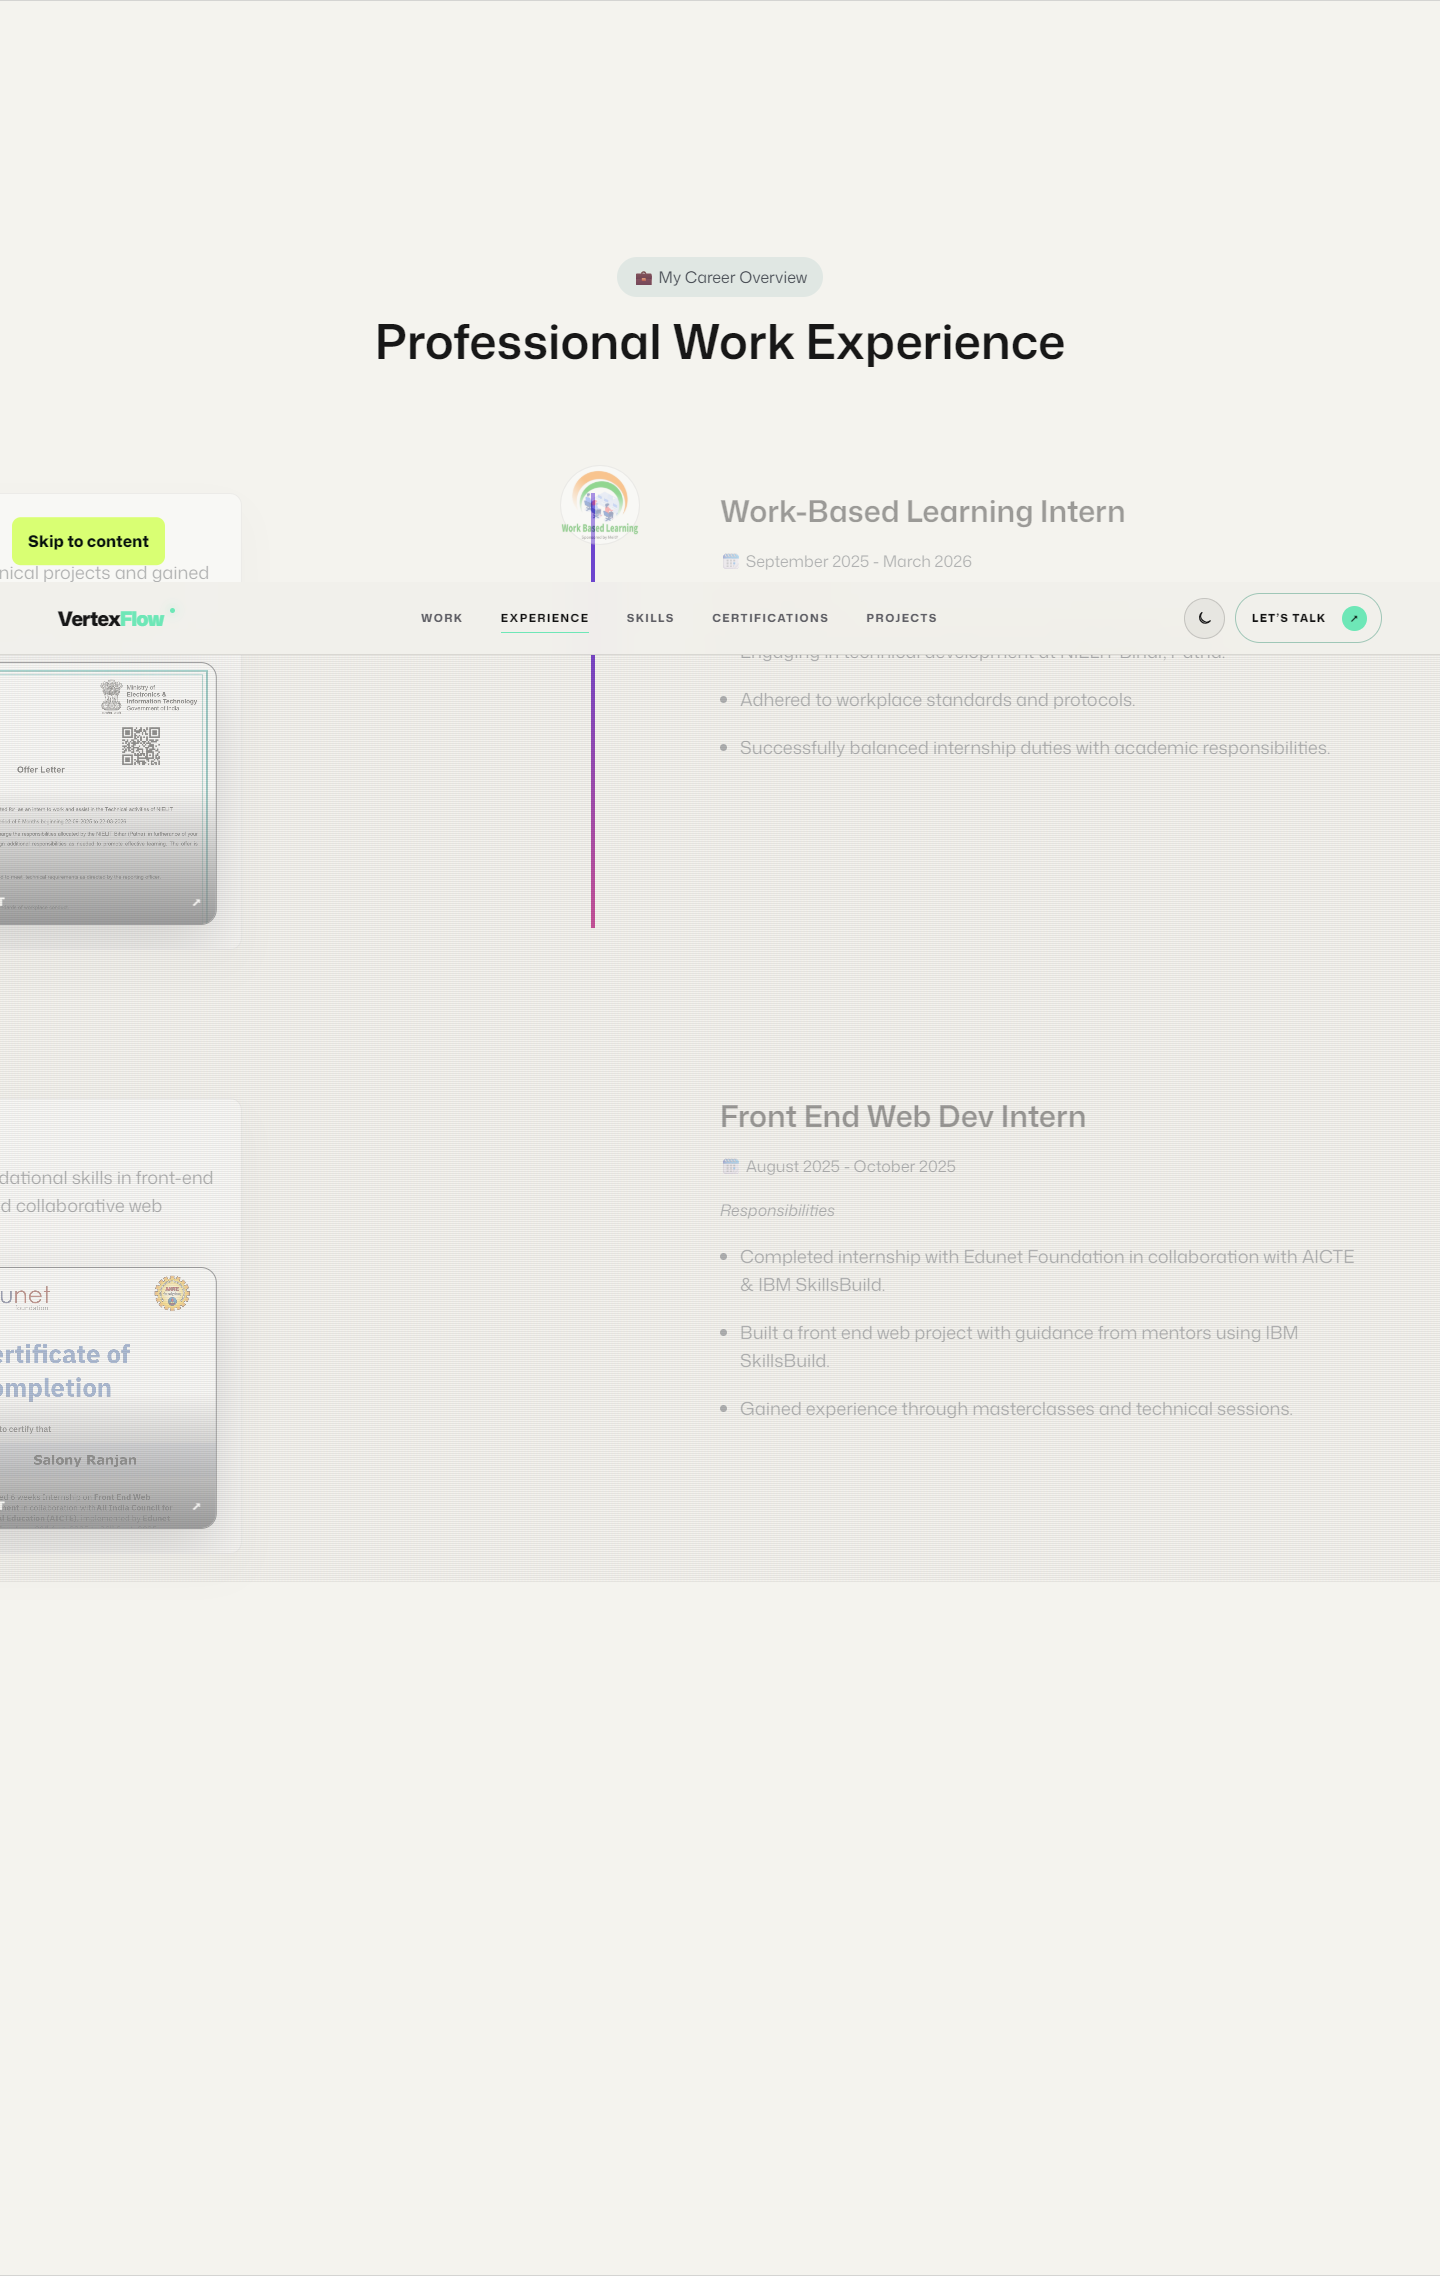
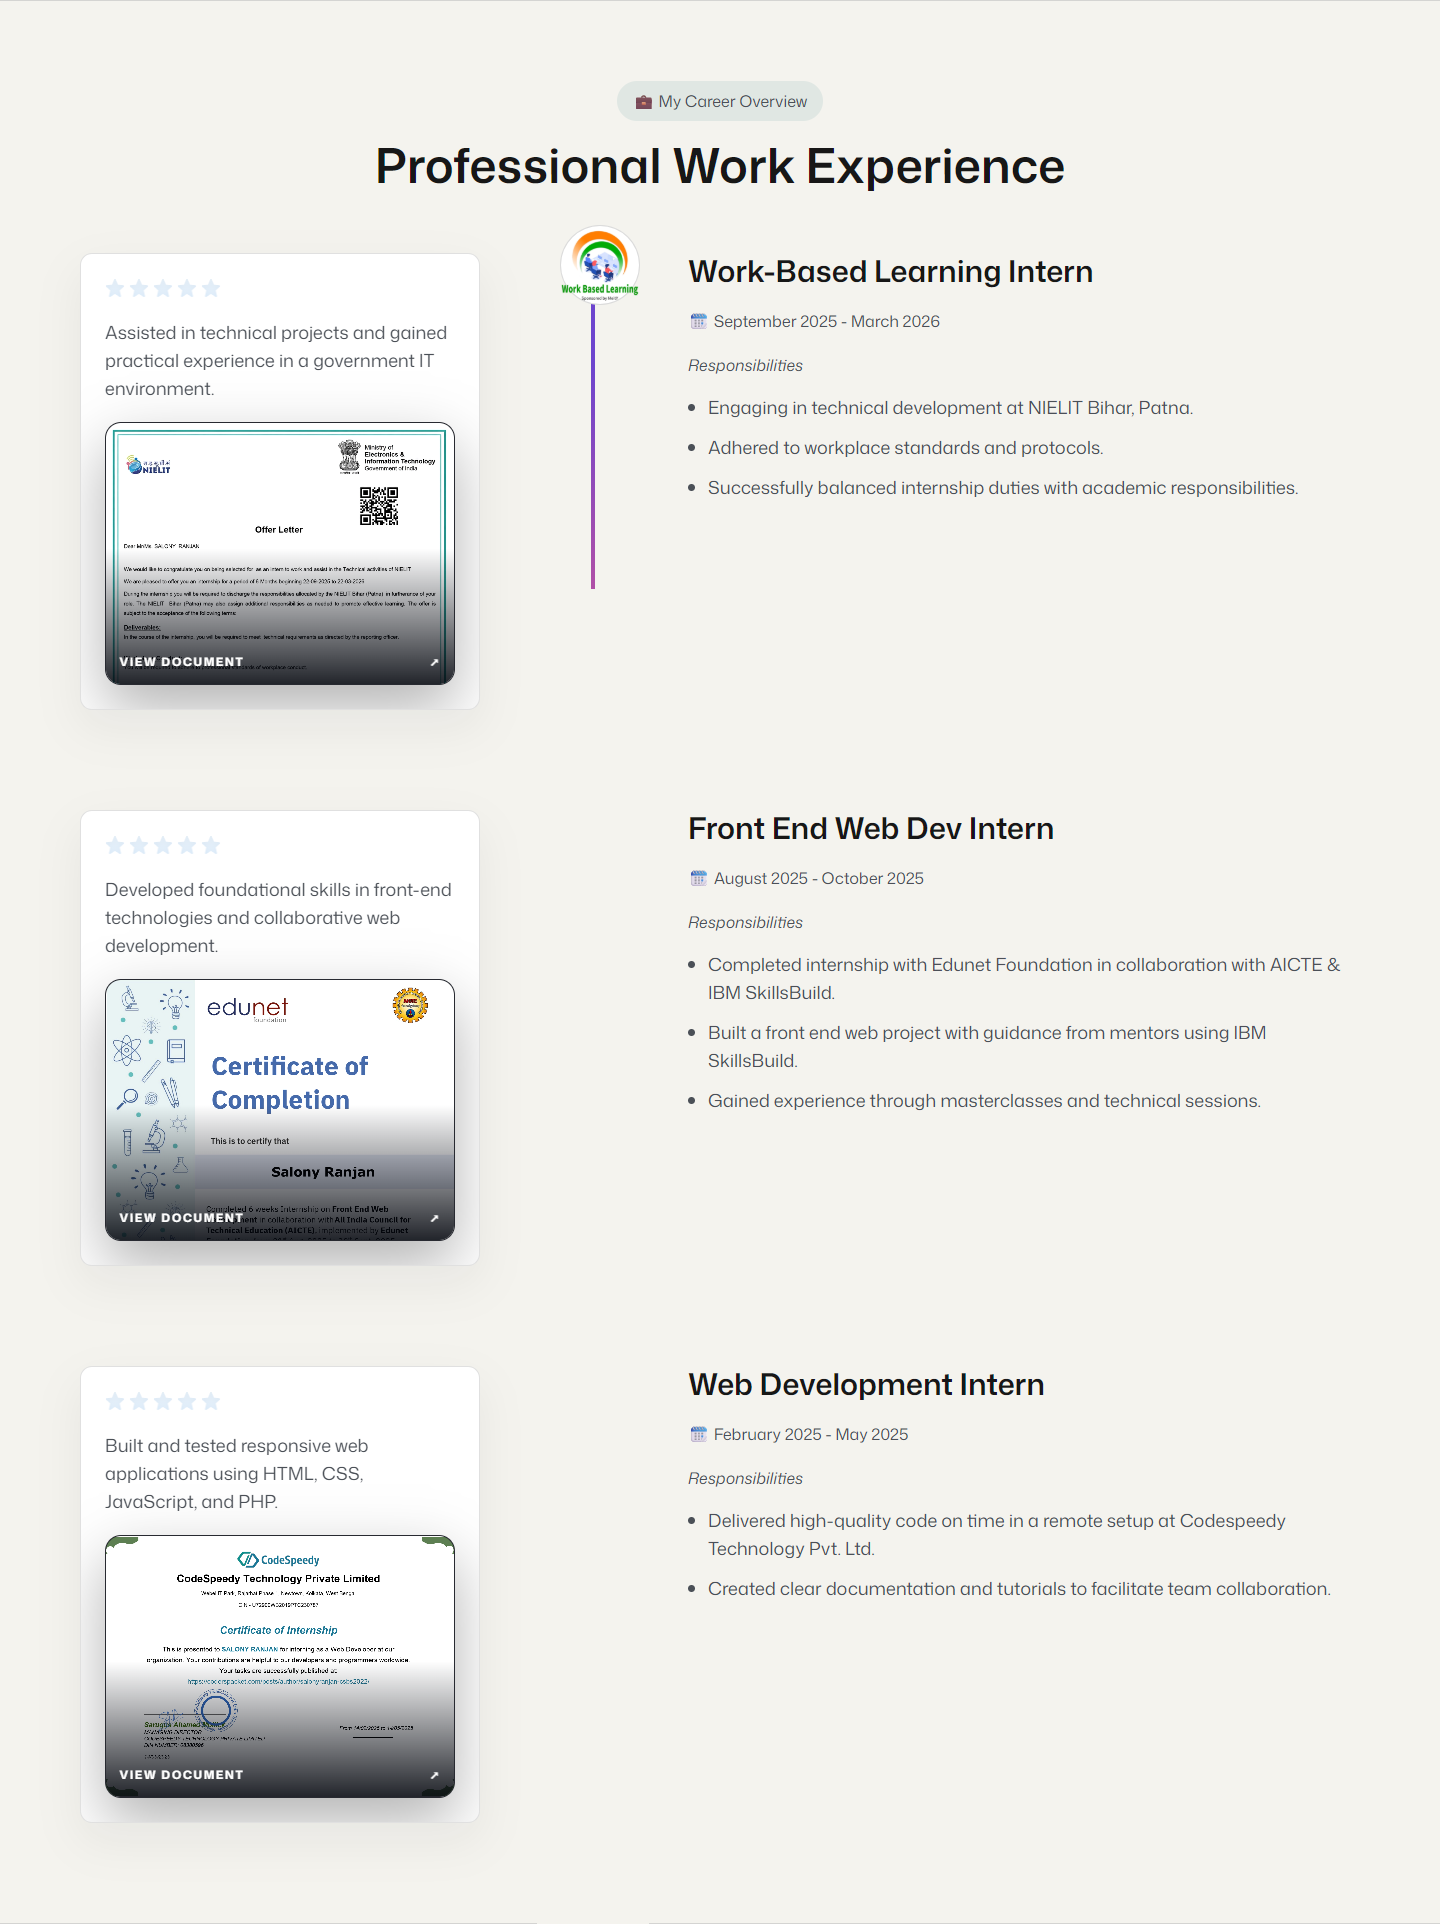
polish documentation and release checks

diff --git a/tests/release-audit.spec.js b/tests/release-audit.spec.js
@@ -1,8 +1,7 @@
-import { test, expect } from "file:///D:/npm-cache/_npx/420ff84f11983ee5/node_modules/@playwright/test/index.mjs";
+import { test, expect } from "@playwright/test";
 
 test.use({
   viewport: { width: 1440, height: 900 },
-  launchOptions: { executablePath: "C:/Program Files (x86)/Microsoft/Edge/Application/msedge.exe" },
 });
 
 const sections = [
@@ -15,31 +14,87 @@ const sections = [
   ["contact", "#contact"],
 ];
 
-test("desktop release audit and README captures", async ({ page }) => {
+const preparePageForScreenshots = async (page) => {
+  await page.evaluate(async () => {
+    const step = Math.max(400, Math.floor(window.innerHeight * 0.7));
+    for (let y = 0; y < document.documentElement.scrollHeight; y += step) {
+      window.scrollTo(0, y);
+      await new Promise((resolve) => setTimeout(resolve, 120));
+    }
+    window.scrollTo(0, document.documentElement.scrollHeight);
+  });
+
+  await page.waitForTimeout(1200);
+  await page.addStyleTag({
+    content: `
+      .vf-navbar,
+      .skip-link,
+      main > .fixed.inset-0.pointer-events-none {
+        display: none !important;
+      }
+
+      main > div > section:not(#hero) {
+        content-visibility: visible !important;
+        contain-intrinsic-size: none !important;
+      }
+
+      .ability-card,
+      .timeline-card,
+      .expText,
+      .tech-card,
+      .project-card {
+        opacity: 1 !important;
+        transform: none !important;
+        visibility: visible !important;
+      }
+
+      *,
+      *::before,
+      *::after {
+        animation-delay: 0s !important;
+        animation-duration: 0s !important;
+        transition-delay: 0s !important;
+        transition-duration: 0s !important;
+      }
+    `,
+  });
+};
+
+const captureSection = async (page, selector, path) => {
+  const section = page.locator(selector);
+  await section.scrollIntoViewIfNeeded();
+  await section.locator("img").evaluateAll((images) =>
+    Promise.all(
+      images.map((image) =>
+        image.complete
+          ? Promise.resolve()
+          : new Promise((resolve) => {
+              image.addEventListener("load", resolve, { once: true });
+              image.addEventListener("error", resolve, { once: true });
+            })
+      )
+    )
+  );
+  await page.waitForTimeout(250);
+  await section.screenshot({ animations: "disabled", path });
+};
+
+test("desktop release audit and light-mode README captures", async ({ page }) => {
   const errors = [];
   page.on("pageerror", (error) => errors.push(error.message));
   page.on("console", (message) => message.type() === "error" && errors.push(message.text()));
 
-  for (const theme of ["dark", "light"]) {
-    await page.addInitScript((value) => localStorage.setItem("vertexflow-theme", value), theme);
-    await page.goto("http://127.0.0.1:4173", { waitUntil: "networkidle" });
-    await expect(page.locator("html")).toHaveAttribute("data-theme", theme);
-    await expect(page.locator(".logo-marquee")).toHaveCSS("animation-name", "logo-marquee");
+  await page.addInitScript(() => localStorage.setItem("vertexflow-theme", "light"));
+  await page.goto("/", { waitUntil: "networkidle" });
+  await expect(page.locator("html")).toHaveAttribute("data-theme", "light");
+  await expect(page.locator(".logo-marquee")).toHaveCSS("animation-name", "logo-marquee");
+  await preparePageForScreenshots(page);
 
-    for (const [name, selector] of sections) {
-      const section = page.locator(selector);
-      await section.scrollIntoViewIfNeeded();
-      await page.waitForTimeout(300);
-      await section.screenshot({ path: `public/screenshots/${name}-${theme}.png` });
-    }
-
-    if (theme === "dark") {
-      const about = page.locator("#about");
-      await about.scrollIntoViewIfNeeded();
-      await page.waitForTimeout(300);
-      await about.screenshot({ path: "public/screenshots/about.png" });
-    }
+  for (const [name, selector] of sections) {
+    await captureSection(page, selector, `test-results/readme/${name}-light.png`);
   }
+
+  await captureSection(page, "#about", "test-results/readme/about.png");
 
   expect(await page.evaluate(() => document.documentElement.scrollWidth - document.documentElement.clientWidth)).toBeLessThanOrEqual(1);
   expect(errors).toEqual([]);
@@ -47,7 +102,7 @@ test("desktop release audit and README captures", async ({ page }) => {
 
 test("mobile release audit", async ({ page }) => {
   await page.setViewportSize({ width: 390, height: 844 });
-  await page.goto("http://127.0.0.1:4173", { waitUntil: "networkidle" });
+  await page.goto("/", { waitUntil: "networkidle" });
   await page.locator(".vf-menu-toggle").click();
   await expect(page.locator(".vf-nav-menu")).toHaveClass(/is-open/);
   await page.locator('.vf-nav-menu a[href="#projects"]').click();

diff --git a/playwright.config.js b/playwright.config.js
@@ -1,0 +1,23 @@
+import { defineConfig } from "@playwright/test";
+
+export default defineConfig({
+  testDir: "./tests",
+  fullyParallel: false,
+  forbidOnly: Boolean(process.env.CI),
+  retries: process.env.CI ? 2 : 0,
+  reporter: process.env.CI ? "github" : "list",
+  use: {
+    baseURL: "http://127.0.0.1:4173",
+    launchOptions: process.env.PLAYWRIGHT_EXECUTABLE_PATH
+      ? { executablePath: process.env.PLAYWRIGHT_EXECUTABLE_PATH }
+      : undefined,
+    screenshot: "only-on-failure",
+    trace: "retain-on-failure",
+  },
+  webServer: {
+    command: "npm run preview",
+    url: "http://127.0.0.1:4173",
+    reuseExistingServer: !process.env.CI,
+    timeout: 120_000,
+  },
+});

diff --git a/src/sections/Projects.jsx b/src/sections/Projects.jsx
@@ -40,9 +40,9 @@ const Projects = () => {
       </div>
 
       <div className="grid grid-cols-1 md:grid-cols-2 lg:grid-cols-3 gap-6">
-        {projects.map((project, index) => (
+        {projects.map((project) => (
           <div 
-            key={index} 
+            key={project.name}
             className="project-card bg-[#0a0a0a] border border-gray-800 rounded-xl p-5 hover:border-emerald-500/50 transition-colors duration-300 group flex flex-col"
           >
             <div className="h-44 w-full bg-gray-900 rounded-lg mb-5 overflow-hidden relative flex-shrink-0">

diff --git a/src/components/models/hero_models/Particles.jsx b/src/components/models/hero_models/Particles.jsx
@@ -51,9 +51,7 @@ const Particles = ({ count = 200 }) => {
       <bufferGeometry>
         <bufferAttribute
           attach="attributes-position"
-          count={count}
-          array={positions}
-          itemSize={3}
+          args={[positions, 3]}
         />
       </bufferGeometry>
       <pointsMaterial

diff --git a/README.md b/README.md
@@ -4,9 +4,9 @@
 
 # VertexFlow
 
-### Engineering ideas into immersive digital experiences.
+### Engineering ideas into immersive digital experiences
 
-VertexFlow is the interactive developer portfolio of **Salony Ranjan**, bringing together full-stack engineering, artificial intelligence, 3D graphics, and thoughtful interaction design.
+VertexFlow is the interactive developer portfolio of **Salony Ranjan**, combining full-stack engineering, artificial intelligence, 3D graphics, and thoughtful interaction design.
 
 [![React](https://img.shields.io/badge/React-19-149ECA?style=flat-square&logo=react&logoColor=white)](https://react.dev/)
 [![Vite](https://img.shields.io/badge/Vite-8-646CFF?style=flat-square&logo=vite&logoColor=white)](https://vite.dev/)
@@ -21,23 +21,17 @@ VertexFlow is the interactive developer portfolio of **Salony Ranjan**, bringing
 
 ## About VertexFlow
 
-VertexFlow presents Salony's work, experience, skills, certifications, and projects through a responsive, motion-rich interface. Its Three.js hero, carefully paced GSAP animations, and persistent light and dark themes create a portfolio that feels cinematic without sacrificing usability.
+VertexFlow presents Salony's work, experience, skills, certifications, and projects through a responsive, motion-rich interface. A Three.js hero, carefully paced GSAP animations, and persistent theme preferences create a cinematic experience without sacrificing usability.
 
 ---
 
 ## Visual showcase
 
-Every application section is shown below in both **light** and **dark** mode, except **About Me**, which is intentionally presented once. Images are displayed at full README width so the interface remains easy to inspect.
+The screenshots below capture every major section in light mode at a consistent desktop width for a clear, uninterrupted preview.
 
 ### Hero
 
-#### Light mode
-
 <img src="./public/screenshots/hero-light.png" width="1200" alt="VertexFlow hero section in light mode" />
-
-#### Dark mode
-
-<img src="./public/screenshots/hero-dark.png" width="1200" alt="VertexFlow hero section in dark mode" />
 
 ### About Me
 
@@ -45,63 +39,27 @@ Every application section is shown below in both **light** and **dark** mode, ex
 
 ### Selected Work and Capabilities
 
-#### Light mode
-
 <img src="./public/screenshots/work-light.png" width="1200" alt="VertexFlow selected work and capabilities section in light mode" />
-
-#### Dark mode
-
-<img src="./public/screenshots/work-dark.png" width="1200" alt="VertexFlow selected work and capabilities section in dark mode" />
 
 ### Professional Experience
 
-#### Light mode
-
 <img src="./public/screenshots/experience-light.png" width="1200" alt="VertexFlow professional experience section in light mode" />
-
-#### Dark mode
-
-<img src="./public/screenshots/experience-dark.png" width="1200" alt="VertexFlow professional experience section in dark mode" />
 
 ### Skills and Tools
 
-#### Light mode
-
 <img src="./public/screenshots/skills-light.png" width="1200" alt="VertexFlow skills and tools section in light mode" />
-
-#### Dark mode
-
-<img src="./public/screenshots/skills-dark.png" width="1200" alt="VertexFlow skills and tools section in dark mode" />
 
 ### Certifications
 
-#### Light mode
-
 <img src="./public/screenshots/certifications-light.png" width="1200" alt="VertexFlow certifications section in light mode" />
-
-#### Dark mode
-
-<img src="./public/screenshots/certifications-dark.png" width="1200" alt="VertexFlow certifications section in dark mode" />
 
 ### Featured Projects
 
-#### Light mode
-
 <img src="./public/screenshots/projects-light.png" width="1200" alt="VertexFlow featured projects section in light mode" />
-
-#### Dark mode
-
-<img src="./public/screenshots/projects-dark.png" width="1200" alt="VertexFlow featured projects section in dark mode" />
 
 ### Contact
 
-#### Light mode
-
 <img src="./public/screenshots/contact-light.png" width="1200" alt="VertexFlow contact section in light mode" />
-
-#### Dark mode
-
-<img src="./public/screenshots/contact-dark.png" width="1200" alt="VertexFlow contact section in dark mode" />
 
 ---
 
@@ -156,7 +114,7 @@ VertexFlow/
 
 ### Requirements
 
-- Node.js compatible with Vite 8
+- Node.js 20.19+ or 22.12+
 - npm
 - Optional EmailJS account for contact-form delivery
 
@@ -181,6 +139,7 @@ For contact-form delivery, copy `.env.example` to `.env` and add your EmailJS cr
 npm run lint
 npm run build
 npm run check
+npm test
 npm run preview
 ```
 
@@ -189,7 +148,10 @@ npm run preview
 | `npm run lint` | Checks the source with ESLint |
 | `npm run build` | Creates the optimized production build |
 | `npm run check` | Runs linting and the production build together |
+| `npm test` | Runs linting, builds the site, and executes desktop and mobile browser checks |
 | `npm run preview` | Serves the production build locally |
+
+Install Playwright's Chromium browser once with `npx playwright install chromium` before running the browser checks locally.
 
 ---
 
